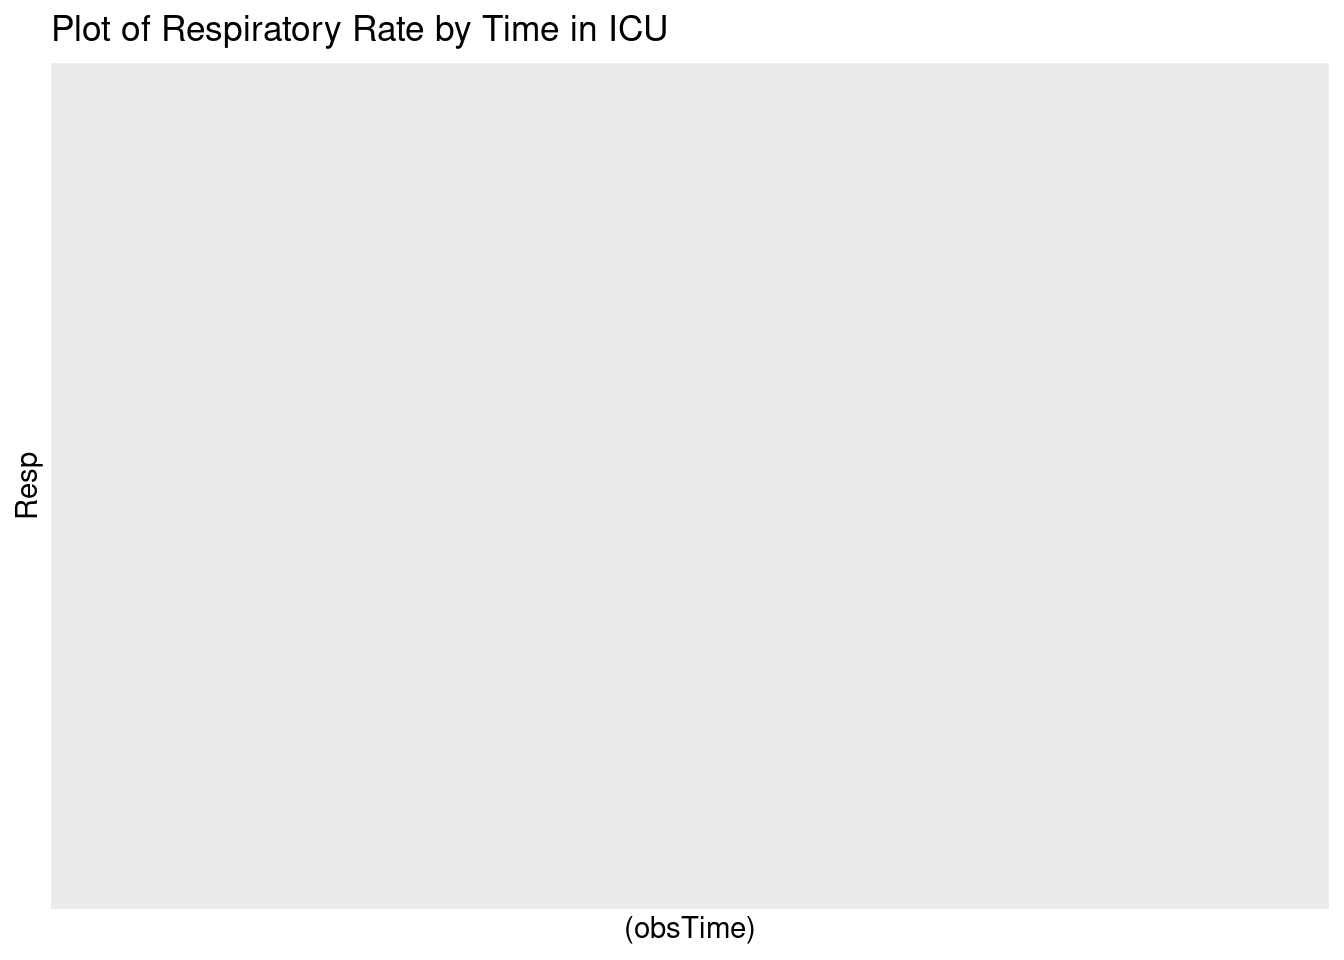
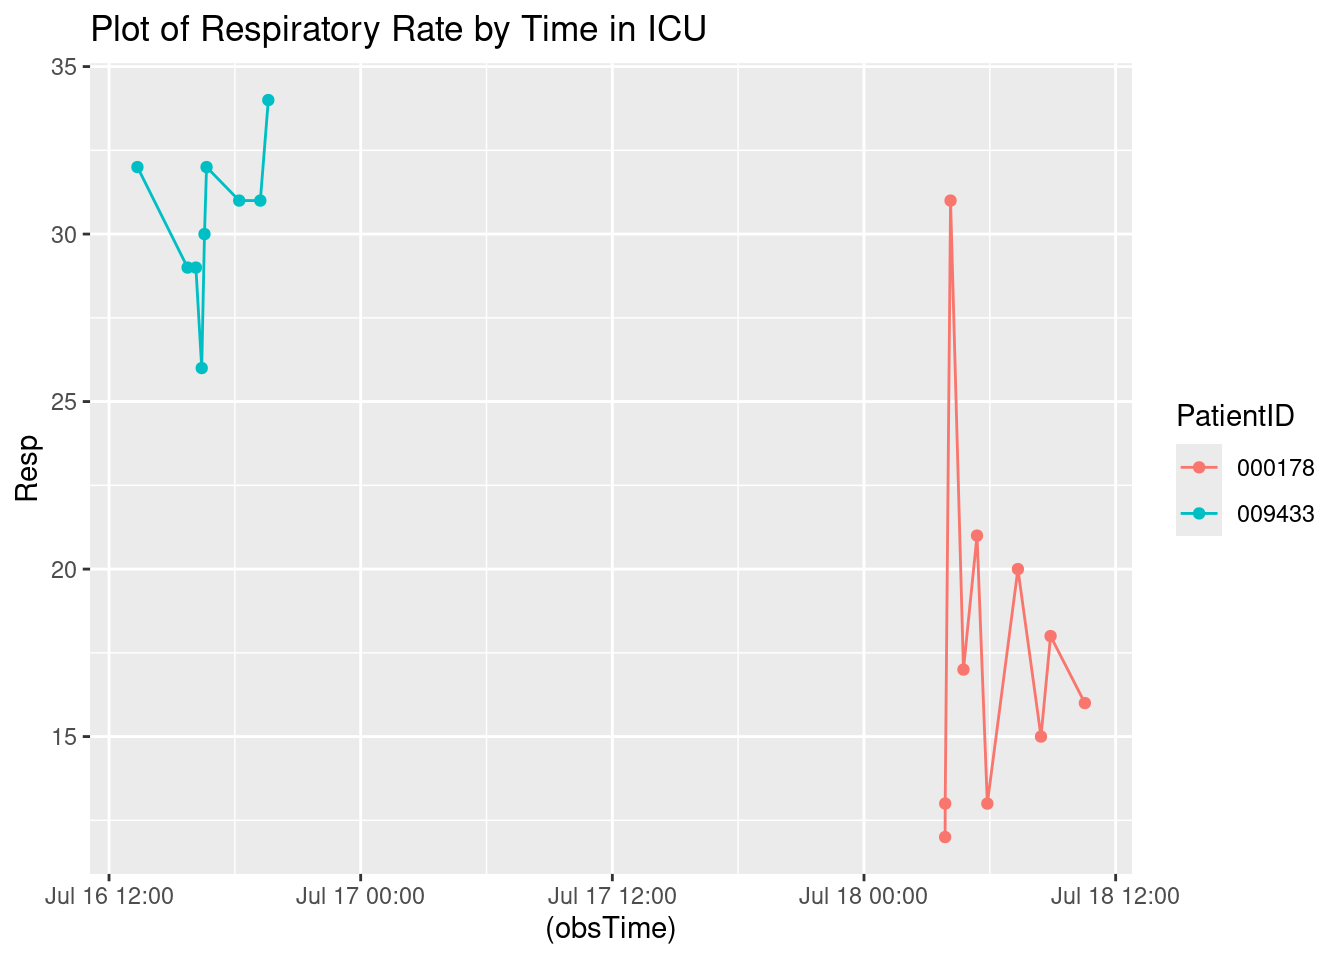
Updated report

diff --git a/A7.html b/A7.html
@@ -116,7 +116,7 @@ pre > code.sourceCode > span > a:first-child::before { text-decoration: underlin
 </div>
 <div class="sourceCode cell-code" id="cb4"><pre class="sourceCode r code-with-copy"><code class="sourceCode r"><span id="cb4-1"><a href="#cb4-1" aria-hidden="true" tabindex="-1"></a><span class="fu">toc</span>()</span></code><button title="Copy to Clipboard" class="code-copy-button"><i class="bi"></i></button></pre></div>
 <div class="cell-output cell-output-stdout">
-<pre><code>30.429 sec elapsed</code></pre>
+<pre><code>15.314 sec elapsed</code></pre>
 </div>
 <div class="sourceCode cell-code" id="cb6"><pre class="sourceCode r code-with-copy"><code class="sourceCode r"><span id="cb6-1"><a href="#cb6-1" aria-hidden="true" tabindex="-1"></a><span class="fu">tic</span>()</span>
 <span id="cb6-2"><a href="#cb6-2" aria-hidden="true" tabindex="-1"></a>test1<span class="ot">=</span><span class="fu">makeSepsisDataset</span>(<span class="at">n=</span><span class="dv">50</span>,<span class="at">read_fn =</span> <span class="st">"read_delim"</span>)</span>
@@ -126,7 +126,7 @@ pre > code.sourceCode > span > a:first-child::before { text-decoration: underlin
 </div>
 <div class="sourceCode cell-code" id="cb8"><pre class="sourceCode r code-with-copy"><code class="sourceCode r"><span id="cb8-1"><a href="#cb8-1" aria-hidden="true" tabindex="-1"></a><span class="fu">toc</span>()</span></code><button title="Copy to Clipboard" class="code-copy-button"><i class="bi"></i></button></pre></div>
 <div class="cell-output cell-output-stdout">
-<pre><code>20.792 sec elapsed</code></pre>
+<pre><code>11.19 sec elapsed</code></pre>
 </div>
 <div class="sourceCode cell-code" id="cb10"><pre class="sourceCode r code-with-copy"><code class="sourceCode r"><span id="cb10-1"><a href="#cb10-1" aria-hidden="true" tabindex="-1"></a><span class="co"># n=100</span></span>
 <span id="cb10-2"><a href="#cb10-2" aria-hidden="true" tabindex="-1"></a><span class="fu">tic</span>()</span>
@@ -137,7 +137,7 @@ pre > code.sourceCode > span > a:first-child::before { text-decoration: underlin
 </div>
 <div class="sourceCode cell-code" id="cb12"><pre class="sourceCode r code-with-copy"><code class="sourceCode r"><span id="cb12-1"><a href="#cb12-1" aria-hidden="true" tabindex="-1"></a><span class="fu">toc</span>()</span></code><button title="Copy to Clipboard" class="code-copy-button"><i class="bi"></i></button></pre></div>
 <div class="cell-output cell-output-stdout">
-<pre><code>57.158 sec elapsed</code></pre>
+<pre><code>27.144 sec elapsed</code></pre>
 </div>
 <div class="sourceCode cell-code" id="cb14"><pre class="sourceCode r code-with-copy"><code class="sourceCode r"><span id="cb14-1"><a href="#cb14-1" aria-hidden="true" tabindex="-1"></a><span class="fu">tic</span>()</span>
 <span id="cb14-2"><a href="#cb14-2" aria-hidden="true" tabindex="-1"></a>test1<span class="ot">=</span><span class="fu">makeSepsisDataset</span>(<span class="at">n=</span><span class="dv">100</span>,<span class="at">read_fn =</span> <span class="st">"read_delim"</span>)</span>
@@ -147,7 +147,7 @@ pre > code.sourceCode > span > a:first-child::before { text-decoration: underlin
 </div>
 <div class="sourceCode cell-code" id="cb16"><pre class="sourceCode r code-with-copy"><code class="sourceCode r"><span id="cb16-1"><a href="#cb16-1" aria-hidden="true" tabindex="-1"></a><span class="fu">toc</span>()</span></code><button title="Copy to Clipboard" class="code-copy-button"><i class="bi"></i></button></pre></div>
 <div class="cell-output cell-output-stdout">
-<pre><code>41.42 sec elapsed</code></pre>
+<pre><code>21.789 sec elapsed</code></pre>
 </div>
 <div class="sourceCode cell-code" id="cb18"><pre class="sourceCode r code-with-copy"><code class="sourceCode r"><span id="cb18-1"><a href="#cb18-1" aria-hidden="true" tabindex="-1"></a><span class="co"># n=500</span></span>
 <span id="cb18-2"><a href="#cb18-2" aria-hidden="true" tabindex="-1"></a><span class="fu">tic</span>()</span>
@@ -158,7 +158,7 @@ pre > code.sourceCode > span > a:first-child::before { text-decoration: underlin
 </div>
 <div class="sourceCode cell-code" id="cb20"><pre class="sourceCode r code-with-copy"><code class="sourceCode r"><span id="cb20-1"><a href="#cb20-1" aria-hidden="true" tabindex="-1"></a><span class="fu">toc</span>()</span></code><button title="Copy to Clipboard" class="code-copy-button"><i class="bi"></i></button></pre></div>
 <div class="cell-output cell-output-stdout">
-<pre><code>286.181 sec elapsed</code></pre>
+<pre><code>134.559 sec elapsed</code></pre>
 </div>
 <div class="sourceCode cell-code" id="cb22"><pre class="sourceCode r code-with-copy"><code class="sourceCode r"><span id="cb22-1"><a href="#cb22-1" aria-hidden="true" tabindex="-1"></a><span class="fu">tic</span>()</span>
 <span id="cb22-2"><a href="#cb22-2" aria-hidden="true" tabindex="-1"></a>test1<span class="ot">=</span><span class="fu">makeSepsisDataset</span>(<span class="at">n=</span><span class="dv">500</span>,<span class="at">read_fn =</span> <span class="st">"read_delim"</span>)</span>
@@ -168,7 +168,7 @@ pre > code.sourceCode > span > a:first-child::before { text-decoration: underlin
 </div>
 <div class="sourceCode cell-code" id="cb24"><pre class="sourceCode r code-with-copy"><code class="sourceCode r"><span id="cb24-1"><a href="#cb24-1" aria-hidden="true" tabindex="-1"></a><span class="fu">toc</span>()</span></code><button title="Copy to Clipboard" class="code-copy-button"><i class="bi"></i></button></pre></div>
 <div class="cell-output cell-output-stdout">
-<pre><code>209.474 sec elapsed</code></pre>
+<pre><code>109.131 sec elapsed</code></pre>
 </div>
 </div>
 <p><strong>Task 3</strong></p>
@@ -194,7 +194,7 @@ pre > code.sourceCode > span > a:first-child::before { text-decoration: underlin
 <span id="cb28-4"><a href="#cb28-4" aria-hidden="true" tabindex="-1"></a></span>
 <span id="cb28-5"><a href="#cb28-5" aria-hidden="true" tabindex="-1"></a><span class="fu">Sys.time</span>()</span></code><button title="Copy to Clipboard" class="code-copy-button"><i class="bi"></i></button></pre></div>
 <div class="cell-output cell-output-stdout">
-<pre><code>[1] "2024-07-14 10:31:52 UTC"</code></pre>
+<pre><code>[1] "2024-07-14 11:22:32 UTC"</code></pre>
 </div>
 <div class="sourceCode cell-code" id="cb30"><pre class="sourceCode r code-with-copy"><code class="sourceCode r"><span id="cb30-1"><a href="#cb30-1" aria-hidden="true" tabindex="-1"></a>dfnew <span class="ot">&lt;-</span> df <span class="sc">%&gt;%</span></span>
 <span id="cb30-2"><a href="#cb30-2" aria-hidden="true" tabindex="-1"></a>  <span class="fu">subset</span>(SepsisLabel<span class="sc">==</span><span class="dv">1</span>)</span>
@@ -209,7 +209,39 @@ pre > code.sourceCode > span > a:first-child::before { text-decoration: underlin
 <span id="cb30-11"><a href="#cb30-11" aria-hidden="true" tabindex="-1"></a></span>
 <span id="cb30-12"><a href="#cb30-12" aria-hidden="true" tabindex="-1"></a><span class="fu">kable</span>(res)</span></code><button title="Copy to Clipboard" class="code-copy-button"><i class="bi"></i></button></pre></div>
 <div class="cell-output-display">
-
+<table class="caption-top table table-sm table-striped small">
+<thead>
+<tr class="header">
+<th style="text-align: left;">PatientID</th>
+<th style="text-align: right;">ICULOS</th>
+<th style="text-align: right;">HR</th>
+<th style="text-align: right;">Temp</th>
+<th style="text-align: right;">Resp</th>
+<th style="text-align: right;">SepsisLabel</th>
+<th style="text-align: left;">obsTime</th>
+</tr>
+</thead>
+<tbody>
+<tr class="odd">
+<td style="text-align: left;">000178</td>
+<td style="text-align: right;">96</td>
+<td style="text-align: right;">102</td>
+<td style="text-align: right;">NA</td>
+<td style="text-align: right;">16</td>
+<td style="text-align: right;">1</td>
+<td style="text-align: left;">2024-07-18 10:31:57</td>
+</tr>
+<tr class="even">
+<td style="text-align: left;">009433</td>
+<td style="text-align: right;">58</td>
+<td style="text-align: right;">94</td>
+<td style="text-align: right;">38.44</td>
+<td style="text-align: right;">34</td>
+<td style="text-align: right;">1</td>
+<td style="text-align: left;">2024-07-16 19:35:43</td>
+</tr>
+</tbody>
+</table>
 </div>
 </div>
 <div class="cell">
